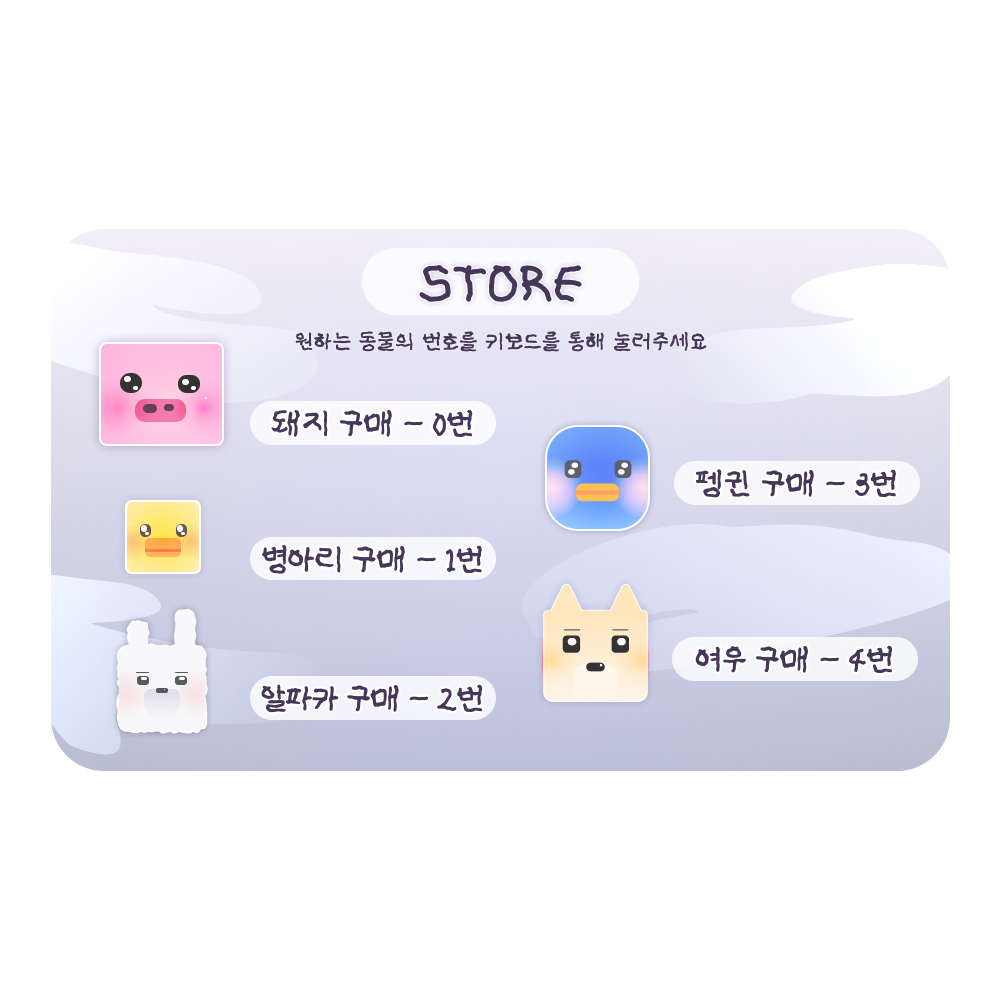
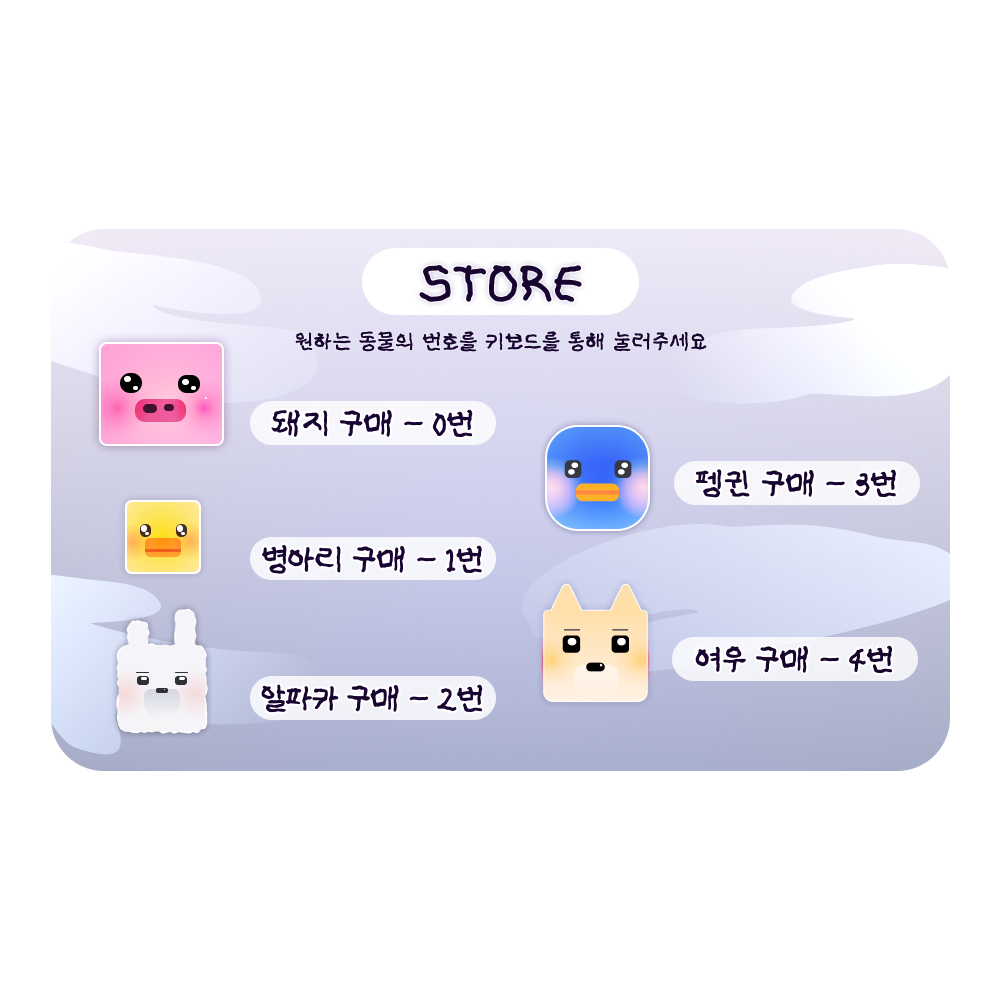
ui변경/로그인 텍스트 화면 비율 위치 보정

diff --git a/FinalProject/MyGame/ResourceManager.cpp b/FinalProject/MyGame/ResourceManager.cpp
@@ -85,7 +85,7 @@ void ResourceManager::loadAllResource()
 	m_Textures["sky1"] = initTexture("./Img/sky1.png");
 	m_Textures["sky2"] = initTexture("./Img/sky2.png");
 	m_Textures["houseWood"] = initTexture("./Img/houseWood.png");
-	m_Textures["store"] = initTexture("./Img/store.png");
+	m_Textures["store"] = initTexture("./Img/storesign.png");
 	m_Textures["storeScene"] = initTexture("./Img/storeUI.png");
 	m_Textures["ddongButton"] = initTexture("./Img/ddongButton1.png");
 	m_Textures["feedButton"] = initTexture("./Img/feedButton1.png");
